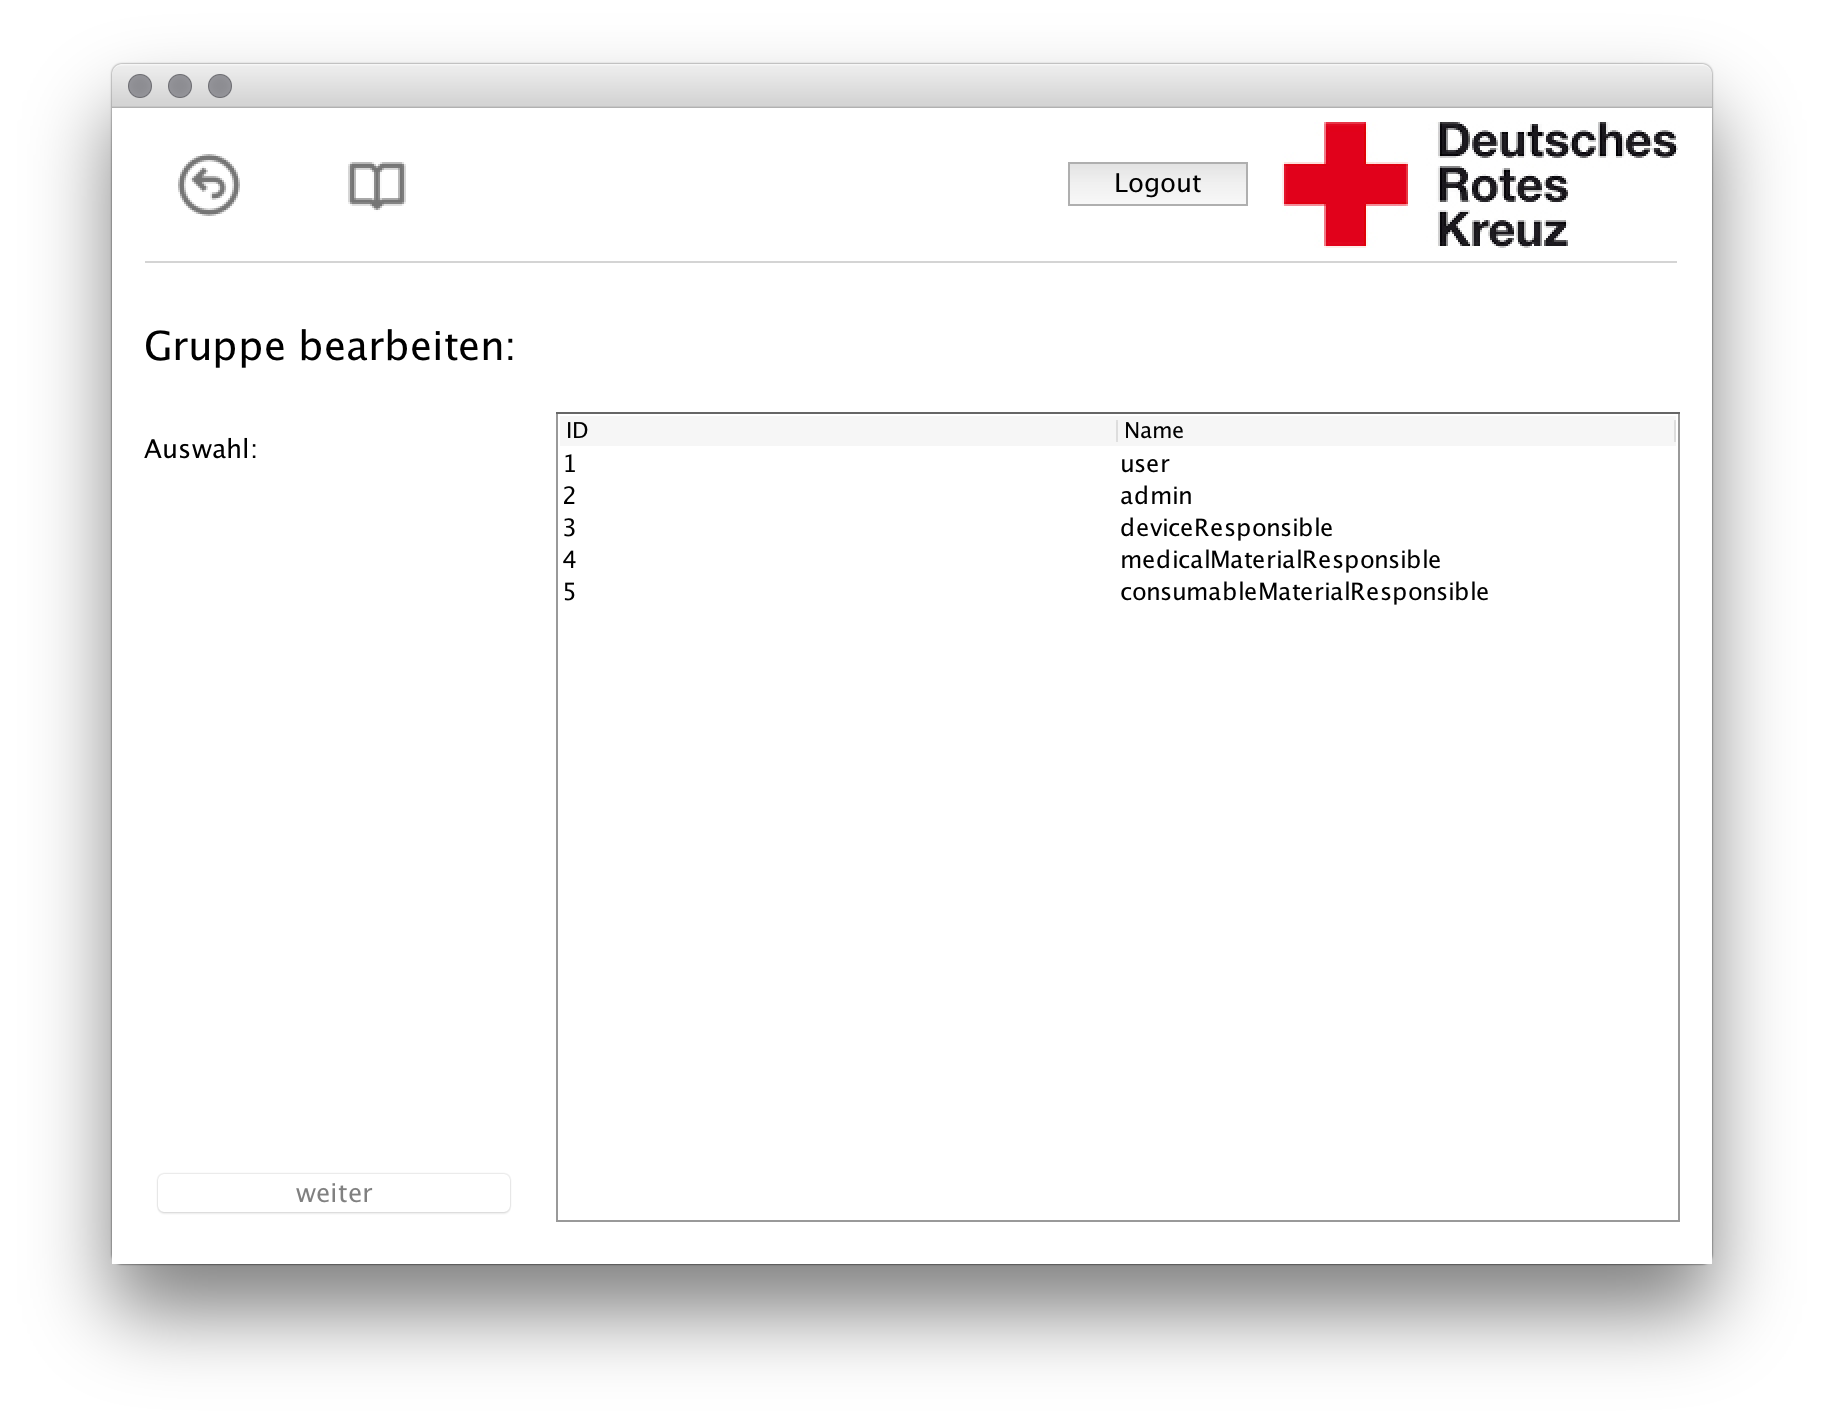
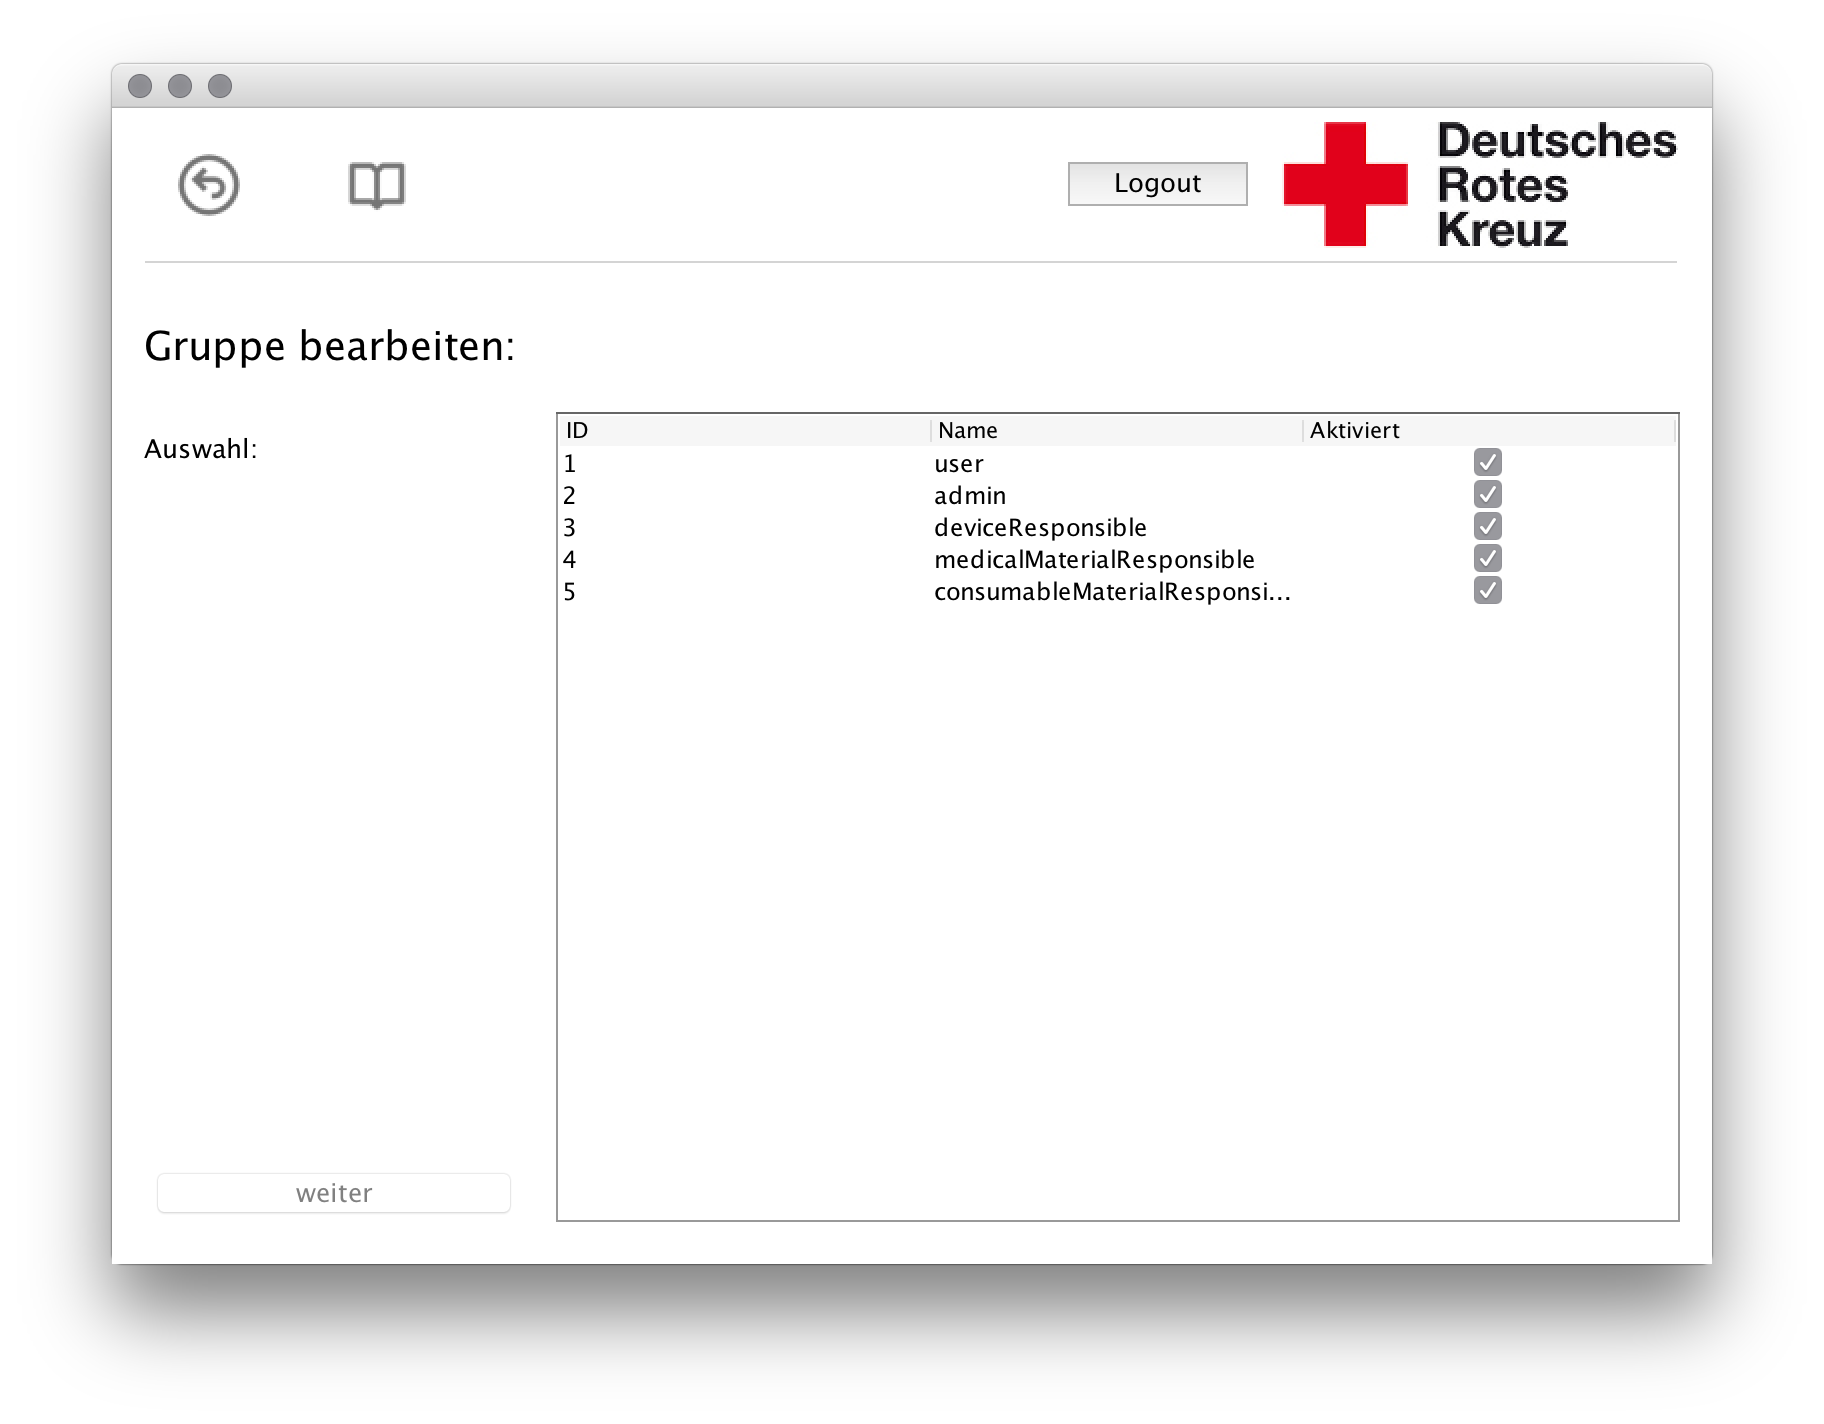
Minor additions to the tableModel in EditMode

diff --git a/source/stockManagement-desktop/src/model/DatabaseReadManager.java b/source/stockManagement-desktop/src/model/DatabaseReadManager.java
@@ -810,7 +810,7 @@ public final class DatabaseReadManager {
 	public static StockObjectValue[] getStockObjectValues(StockObject stockObject) {
 		String sqlStatement = "SELECT `id`, `volume`, `date`, `mtkDate`, `stkDate`, `inventoryNumber`, `serialNumber`, "
 				+ "`umdns`, `batchNumber`, `creation`, `escalationAck`, `stockObjectId`, `locationId`, `messageId` "
-				+ "FROM `StockValue` WHERE `stockObjectId` = " + stockObject.id + "ORDER BY `id` ASC ;";
+				+ "FROM `StockValue` WHERE `stockObjectId` = " + stockObject.id + " ORDER BY `id` ASC ;";
 		ResultSet rs = null;
 		try {
 			// get Data from Database
@@ -948,7 +948,7 @@ public final class DatabaseReadManager {
 		} catch (SQLException e) {
 			// rs isNull or one or more attributes are missing
 			// uncomment for debugging SQL-Statements
-			// System.out.println(e.getMessage());
+			System.out.println("Read Error - getStockObjectValues(Location location): " + e.getMessage());
 			try {
 				DatabaseReadManager.close(rs);
 			} catch (SQLException e1) {
@@ -964,8 +964,8 @@ public final class DatabaseReadManager {
 	 * @return StockObjectValue[]
 	 */
 	public static StockObjectValue[] getStockObjectValues(DatabaseObject.StockValueMessage message) {
-		String sqlStatement = "SELECT `id`, `volume`, `date`, `mtkDate`,`stkDate`,`inventoryNumber`,`serialNumber`,"
-				+ "`umdns`,`batchNumber`,`creation`,`escalationAck`,`stockObjectId`,`locationId`,`messageId`"
+		String sqlStatement = "SELECT `id`, `volume`, `date`, `mtkDate`, `stkDate`, `inventoryNumber`, `serialNumber`, "
+				+ "`umdns`, `batchNumber`, `creation`, `escalationAck`, `stockObjectId`, `locationId`, `messageId` "
 				+ "FROM `StockValue` WHERE `messageId` = " + message.ordinal() + " ORDER BY `id` ASC;";
 		ResultSet rs = null;
 		try {
@@ -1000,7 +1000,7 @@ public final class DatabaseReadManager {
 		} catch (SQLException e) {
 			// rs isNull or one or more attributes are missing
 			// uncomment for debugging SQL-Statements
-			// System.out.println(e.getMessage());
+			System.out.println("Read Error - getStockObjectValues(DatabaseObject.StockValueMessage message): " + e.getMessage());
 			try {
 				DatabaseReadManager.close(rs);
 			} catch (SQLException e1) {
@@ -1021,7 +1021,7 @@ public final class DatabaseReadManager {
 	 */
 	public static StockObjectValue[] existingStockObjectValueFor(StockObjectValue stockObjectValue) {
 		String sqlStatement = "SELECT * FROM `StockValue` WHERE `stockObjectId` = " + stockObjectValue.stockObjectID
-				+ " AND `locationId` = " + stockObjectValue.locationID + " ORDER BY `id` ASC;";
+				+ " AND `locationId` = " + stockObjectValue.locationID;
 		// Switch between different extended StockObjectValue Types
 		if (stockObjectValue instanceof DeviceValue) {
 			DeviceValue deviceValue = (DeviceValue) stockObjectValue;
@@ -1042,7 +1042,7 @@ public final class DatabaseReadManager {
 		} else {
 			return new StockObjectValue[0];
 		}
-		sqlStatement += ";";
+		sqlStatement += " ORDER BY `id` ASC;";
 		ResultSet rs = null;
 		// Execute the processed SQL Statement and return an Array of Objects
 		try {
@@ -1077,7 +1077,7 @@ public final class DatabaseReadManager {
 		} catch (SQLException e) {
 			// rs isNull or one or more attributes are missing
 			// uncomment for debugging SQL-Statements
-			System.out.println(e.getMessage());
+			System.out.println("Read Error existingStockObjectValueFor(StockObjectValue stockObjectValue): " + e.getMessage());
 			try {
 				DatabaseReadManager.close(rs);
 			} catch (SQLException e1) {
@@ -1140,7 +1140,7 @@ public final class DatabaseReadManager {
 		} catch (SQLException e) {
 			// rs isNull or one or more attributes are missing
 			// uncomment for debugging SQL-Statements
-			System.out.println(e.getMessage());
+			System.out.println("Read Error - generateInventory: " + e.getMessage());
 			try {
 				DatabaseReadManager.close(rs);
 			} catch (SQLException e1) {

diff --git a/source/stockManagement-worker/src/model/DatabaseReadManager.java b/source/stockManagement-worker/src/model/DatabaseReadManager.java
@@ -810,7 +810,7 @@ public final class DatabaseReadManager {
 	public static StockObjectValue[] getStockObjectValues(StockObject stockObject) {
 		String sqlStatement = "SELECT `id`, `volume`, `date`, `mtkDate`, `stkDate`, `inventoryNumber`, `serialNumber`, "
 				+ "`umdns`, `batchNumber`, `creation`, `escalationAck`, `stockObjectId`, `locationId`, `messageId` "
-				+ "FROM `StockValue` WHERE `stockObjectId` = " + stockObject.id + "ORDER BY `id` ASC ;";
+				+ "FROM `StockValue` WHERE `stockObjectId` = " + stockObject.id + " ORDER BY `id` ASC ;";
 		ResultSet rs = null;
 		try {
 			// get Data from Database
@@ -948,7 +948,7 @@ public final class DatabaseReadManager {
 		} catch (SQLException e) {
 			// rs isNull or one or more attributes are missing
 			// uncomment for debugging SQL-Statements
-			// System.out.println(e.getMessage());
+			System.out.println("Read Error - getStockObjectValues(Location location): " + e.getMessage());
 			try {
 				DatabaseReadManager.close(rs);
 			} catch (SQLException e1) {
@@ -964,8 +964,8 @@ public final class DatabaseReadManager {
 	 * @return StockObjectValue[]
 	 */
 	public static StockObjectValue[] getStockObjectValues(DatabaseObject.StockValueMessage message) {
-		String sqlStatement = "SELECT `id`, `volume`, `date`, `mtkDate`,`stkDate`,`inventoryNumber`,`serialNumber`,"
-				+ "`umdns`,`batchNumber`,`creation`,`escalationAck`,`stockObjectId`,`locationId`,`messageId`"
+		String sqlStatement = "SELECT `id`, `volume`, `date`, `mtkDate`, `stkDate`, `inventoryNumber`, `serialNumber`, "
+				+ "`umdns`, `batchNumber`, `creation`, `escalationAck`, `stockObjectId`, `locationId`, `messageId` "
 				+ "FROM `StockValue` WHERE `messageId` = " + message.ordinal() + " ORDER BY `id` ASC;";
 		ResultSet rs = null;
 		try {
@@ -1000,7 +1000,7 @@ public final class DatabaseReadManager {
 		} catch (SQLException e) {
 			// rs isNull or one or more attributes are missing
 			// uncomment for debugging SQL-Statements
-			// System.out.println(e.getMessage());
+			System.out.println("Read Error - getStockObjectValues(DatabaseObject.StockValueMessage message): " + e.getMessage());
 			try {
 				DatabaseReadManager.close(rs);
 			} catch (SQLException e1) {
@@ -1021,7 +1021,7 @@ public final class DatabaseReadManager {
 	 */
 	public static StockObjectValue[] existingStockObjectValueFor(StockObjectValue stockObjectValue) {
 		String sqlStatement = "SELECT * FROM `StockValue` WHERE `stockObjectId` = " + stockObjectValue.stockObjectID
-				+ " AND `locationId` = " + stockObjectValue.locationID + " ORDER BY `id` ASC;";
+				+ " AND `locationId` = " + stockObjectValue.locationID;
 		// Switch between different extended StockObjectValue Types
 		if (stockObjectValue instanceof DeviceValue) {
 			DeviceValue deviceValue = (DeviceValue) stockObjectValue;
@@ -1042,7 +1042,7 @@ public final class DatabaseReadManager {
 		} else {
 			return new StockObjectValue[0];
 		}
-		sqlStatement += ";";
+		sqlStatement += " ORDER BY `id` ASC;";
 		ResultSet rs = null;
 		// Execute the processed SQL Statement and return an Array of Objects
 		try {
@@ -1077,7 +1077,7 @@ public final class DatabaseReadManager {
 		} catch (SQLException e) {
 			// rs isNull or one or more attributes are missing
 			// uncomment for debugging SQL-Statements
-			System.out.println(e.getMessage());
+			System.out.println("Read Error existingStockObjectValueFor(StockObjectValue stockObjectValue): " + e.getMessage());
 			try {
 				DatabaseReadManager.close(rs);
 			} catch (SQLException e1) {
@@ -1140,7 +1140,7 @@ public final class DatabaseReadManager {
 		} catch (SQLException e) {
 			// rs isNull or one or more attributes are missing
 			// uncomment for debugging SQL-Statements
-			System.out.println(e.getMessage());
+			System.out.println("Read Error - generateInventory: " + e.getMessage());
 			try {
 				DatabaseReadManager.close(rs);
 			} catch (SQLException e1) {

diff --git a/source/stockManagement-desktop/src/presenter/data/EditPresenter.java b/source/stockManagement-desktop/src/presenter/data/EditPresenter.java
@@ -120,10 +120,10 @@ public class EditPresenter extends Presenter implements MouseListener {
 				columnNames = new Object[]{ "ID", "Titel"};
 				break;
 			case userMenuItem:
-				columnNames = new Object[]{ "ID", "Username"};
+				columnNames = new Object[]{ "ID", "Username", "Vorname", "Name"};
 				break;
 			case groupMenuItem:
-				columnNames = new Object[]{ "ID", "Name"};
+				columnNames = new Object[]{ "ID", "Name", "Aktiviert"};
 				break;
 		}
 
@@ -163,21 +163,38 @@ public class EditPresenter extends Presenter implements MouseListener {
 					case userMenuItem:
 						if (databaseObject instanceof User) {
 							User user = (User) databaseObject;
-							Object row[] = {databaseObject.id, user.username};
+							Object row[] = {databaseObject.id, user.username, user.firstName, user.name};
 							model.addRow(row);
 						}
 						break;
 					case groupMenuItem:
 						if (databaseObject instanceof Group) {
 							Group group = (Group) databaseObject;
-							Object row[] = { databaseObject.id, group.title};
+							Object row[] = { databaseObject.id, group.title, group.isActive};
 							model.addRow(row);
 						}
 						break;
 				}
 			}
 		}
+
 		this.table.setModel(model);
+		/** Type specific Model setup **/
+		switch (this.modificationType) {
+			case deviceMenuItem:
+				break;
+			case medicalMaterialMenuItem:
+				break;
+			case consumableMaterialMenuItem:
+				break;
+			case locationMenuItem:
+				break;
+			case userMenuItem:
+				break;
+			case groupMenuItem:
+				this.table.getColumnModel().getColumn(2).setCellRenderer(this.table.getDefaultRenderer(Boolean.class));
+				break;
+		}
 		this.table.addMouseListener(this);
 		scrollPane.setViewportView(this.table);
 

diff --git a/source/stockManagement-worker/src/model/DatabaseWriteManager.java b/source/stockManagement-worker/src/model/DatabaseWriteManager.java
@@ -703,6 +703,7 @@ public final class DatabaseWriteManager {
 			}
 		} catch (SQLException exception) {
 			// uncomment for debugging SQL-Statements
+			System.out.println("Write Error:");
 			System.out.println(exception.getMessage());
 			return false;
 		}
